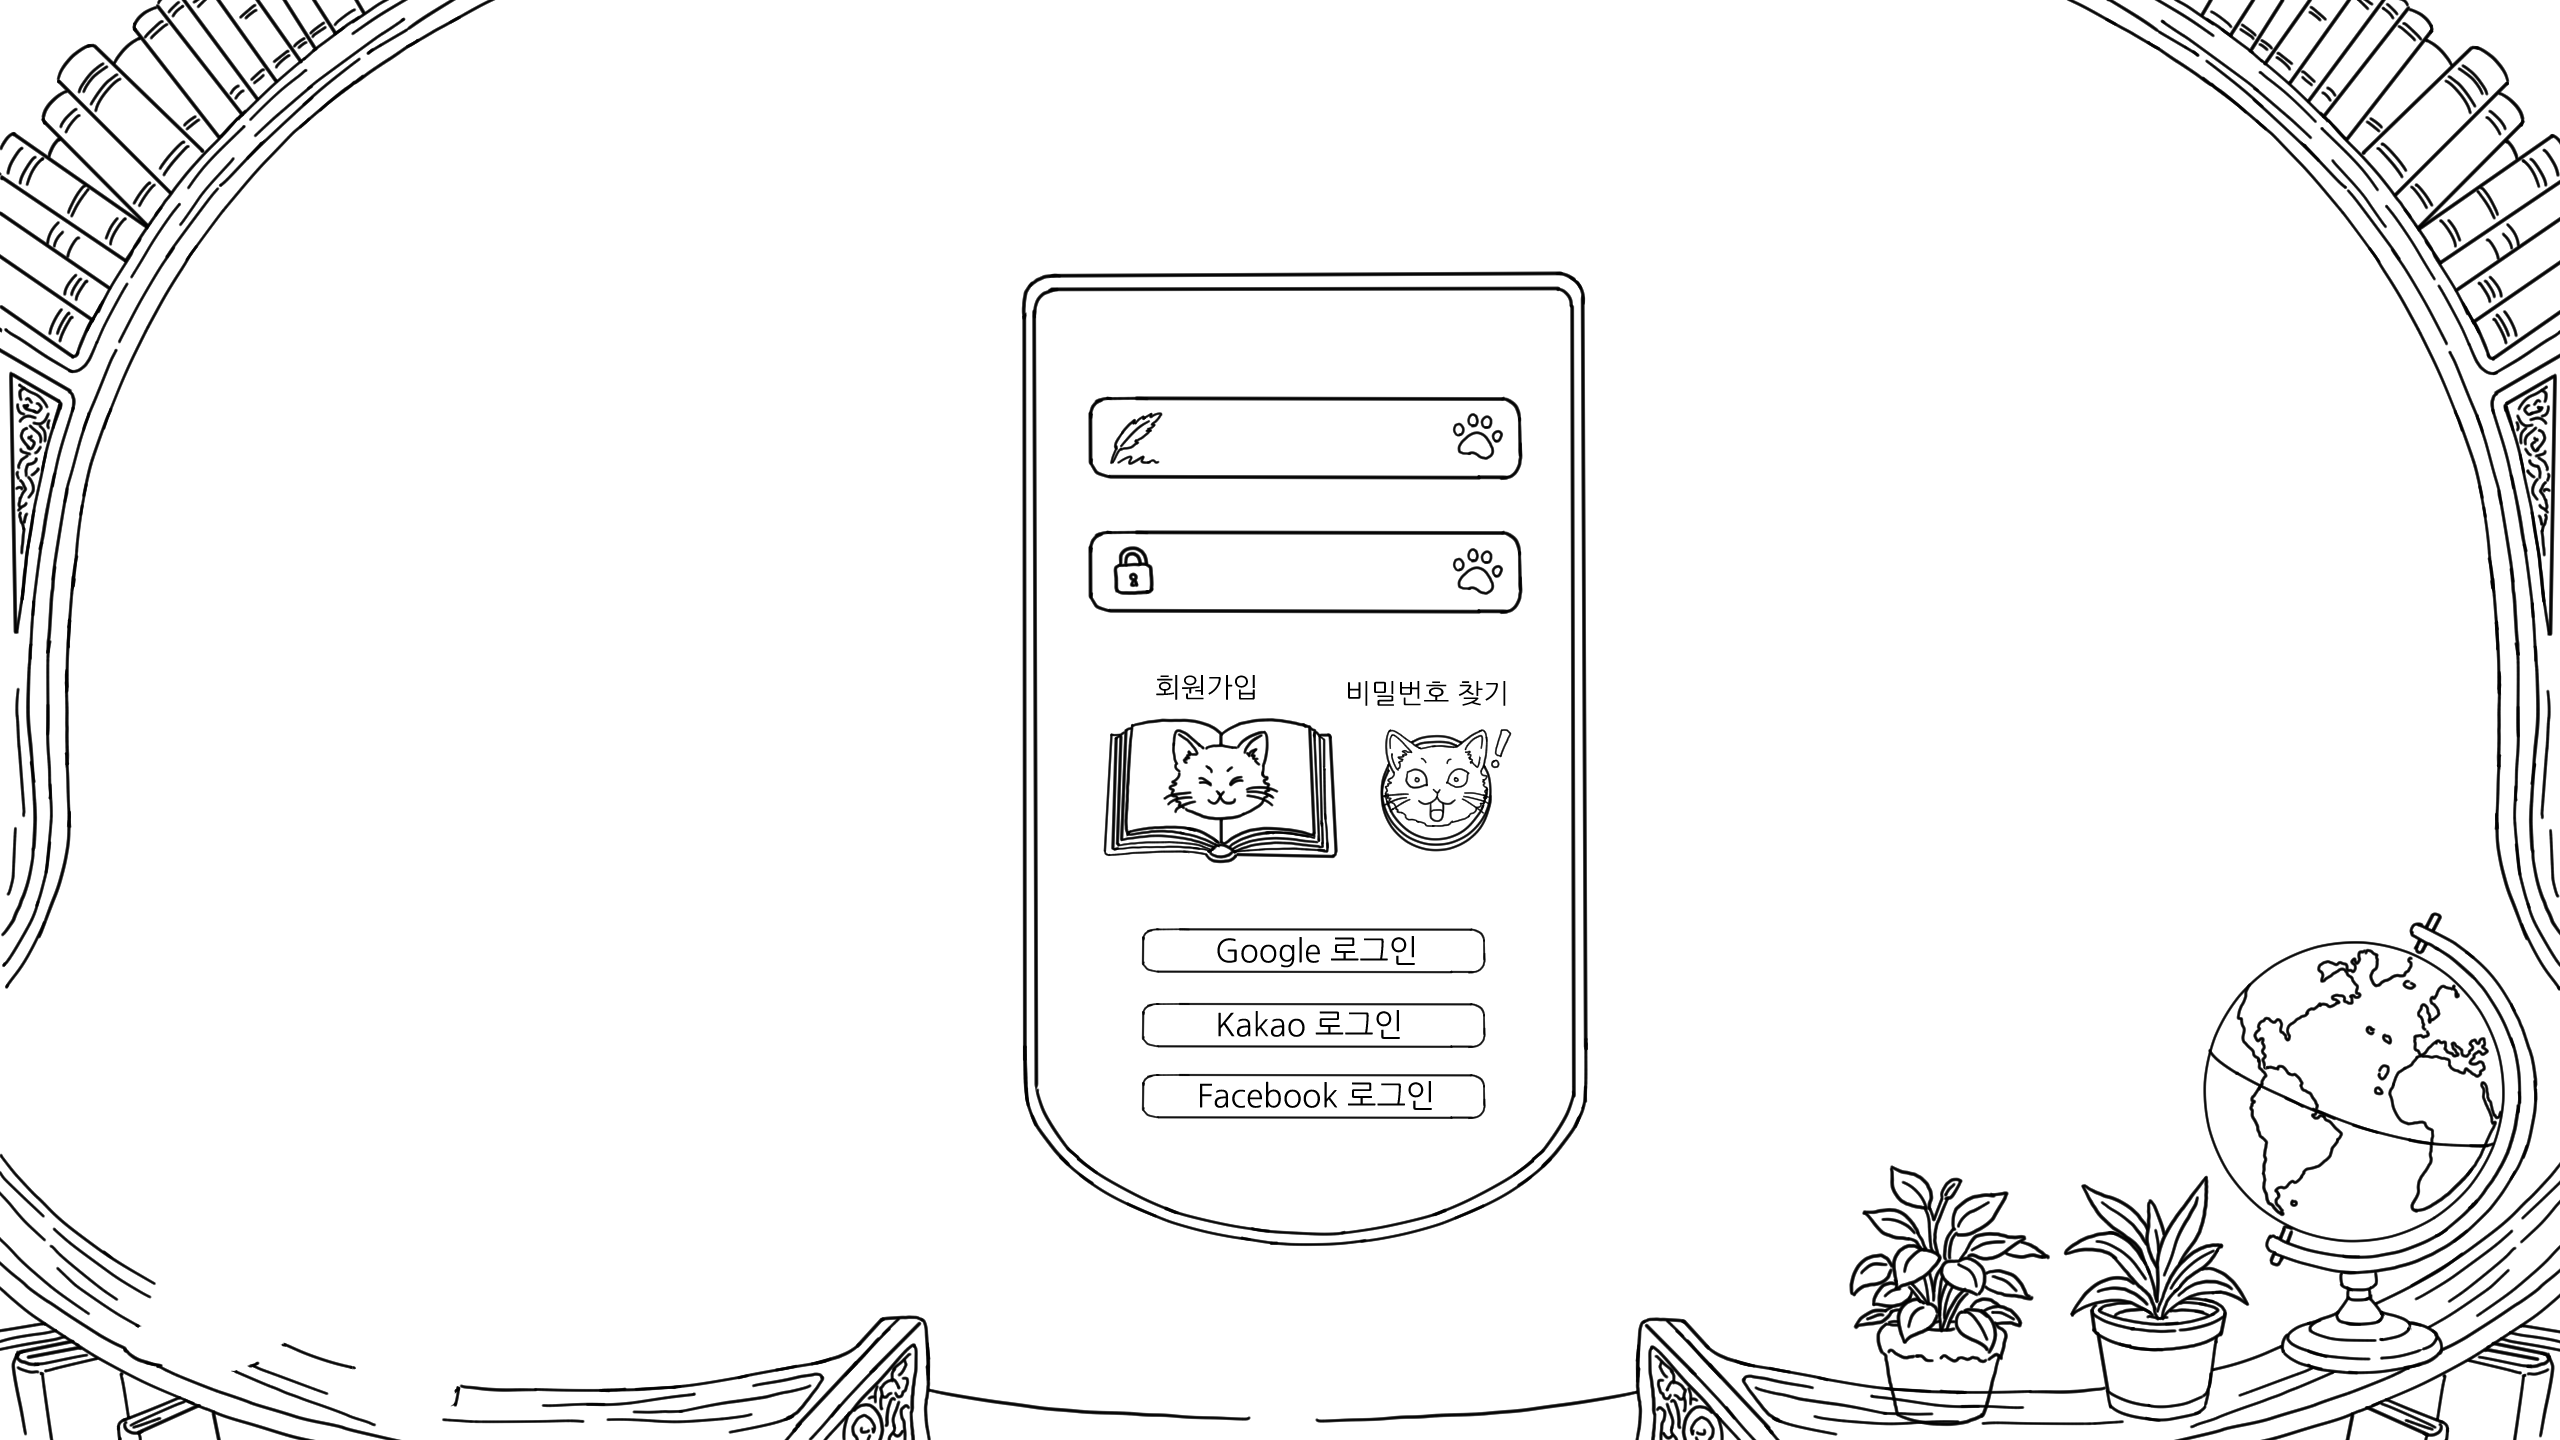
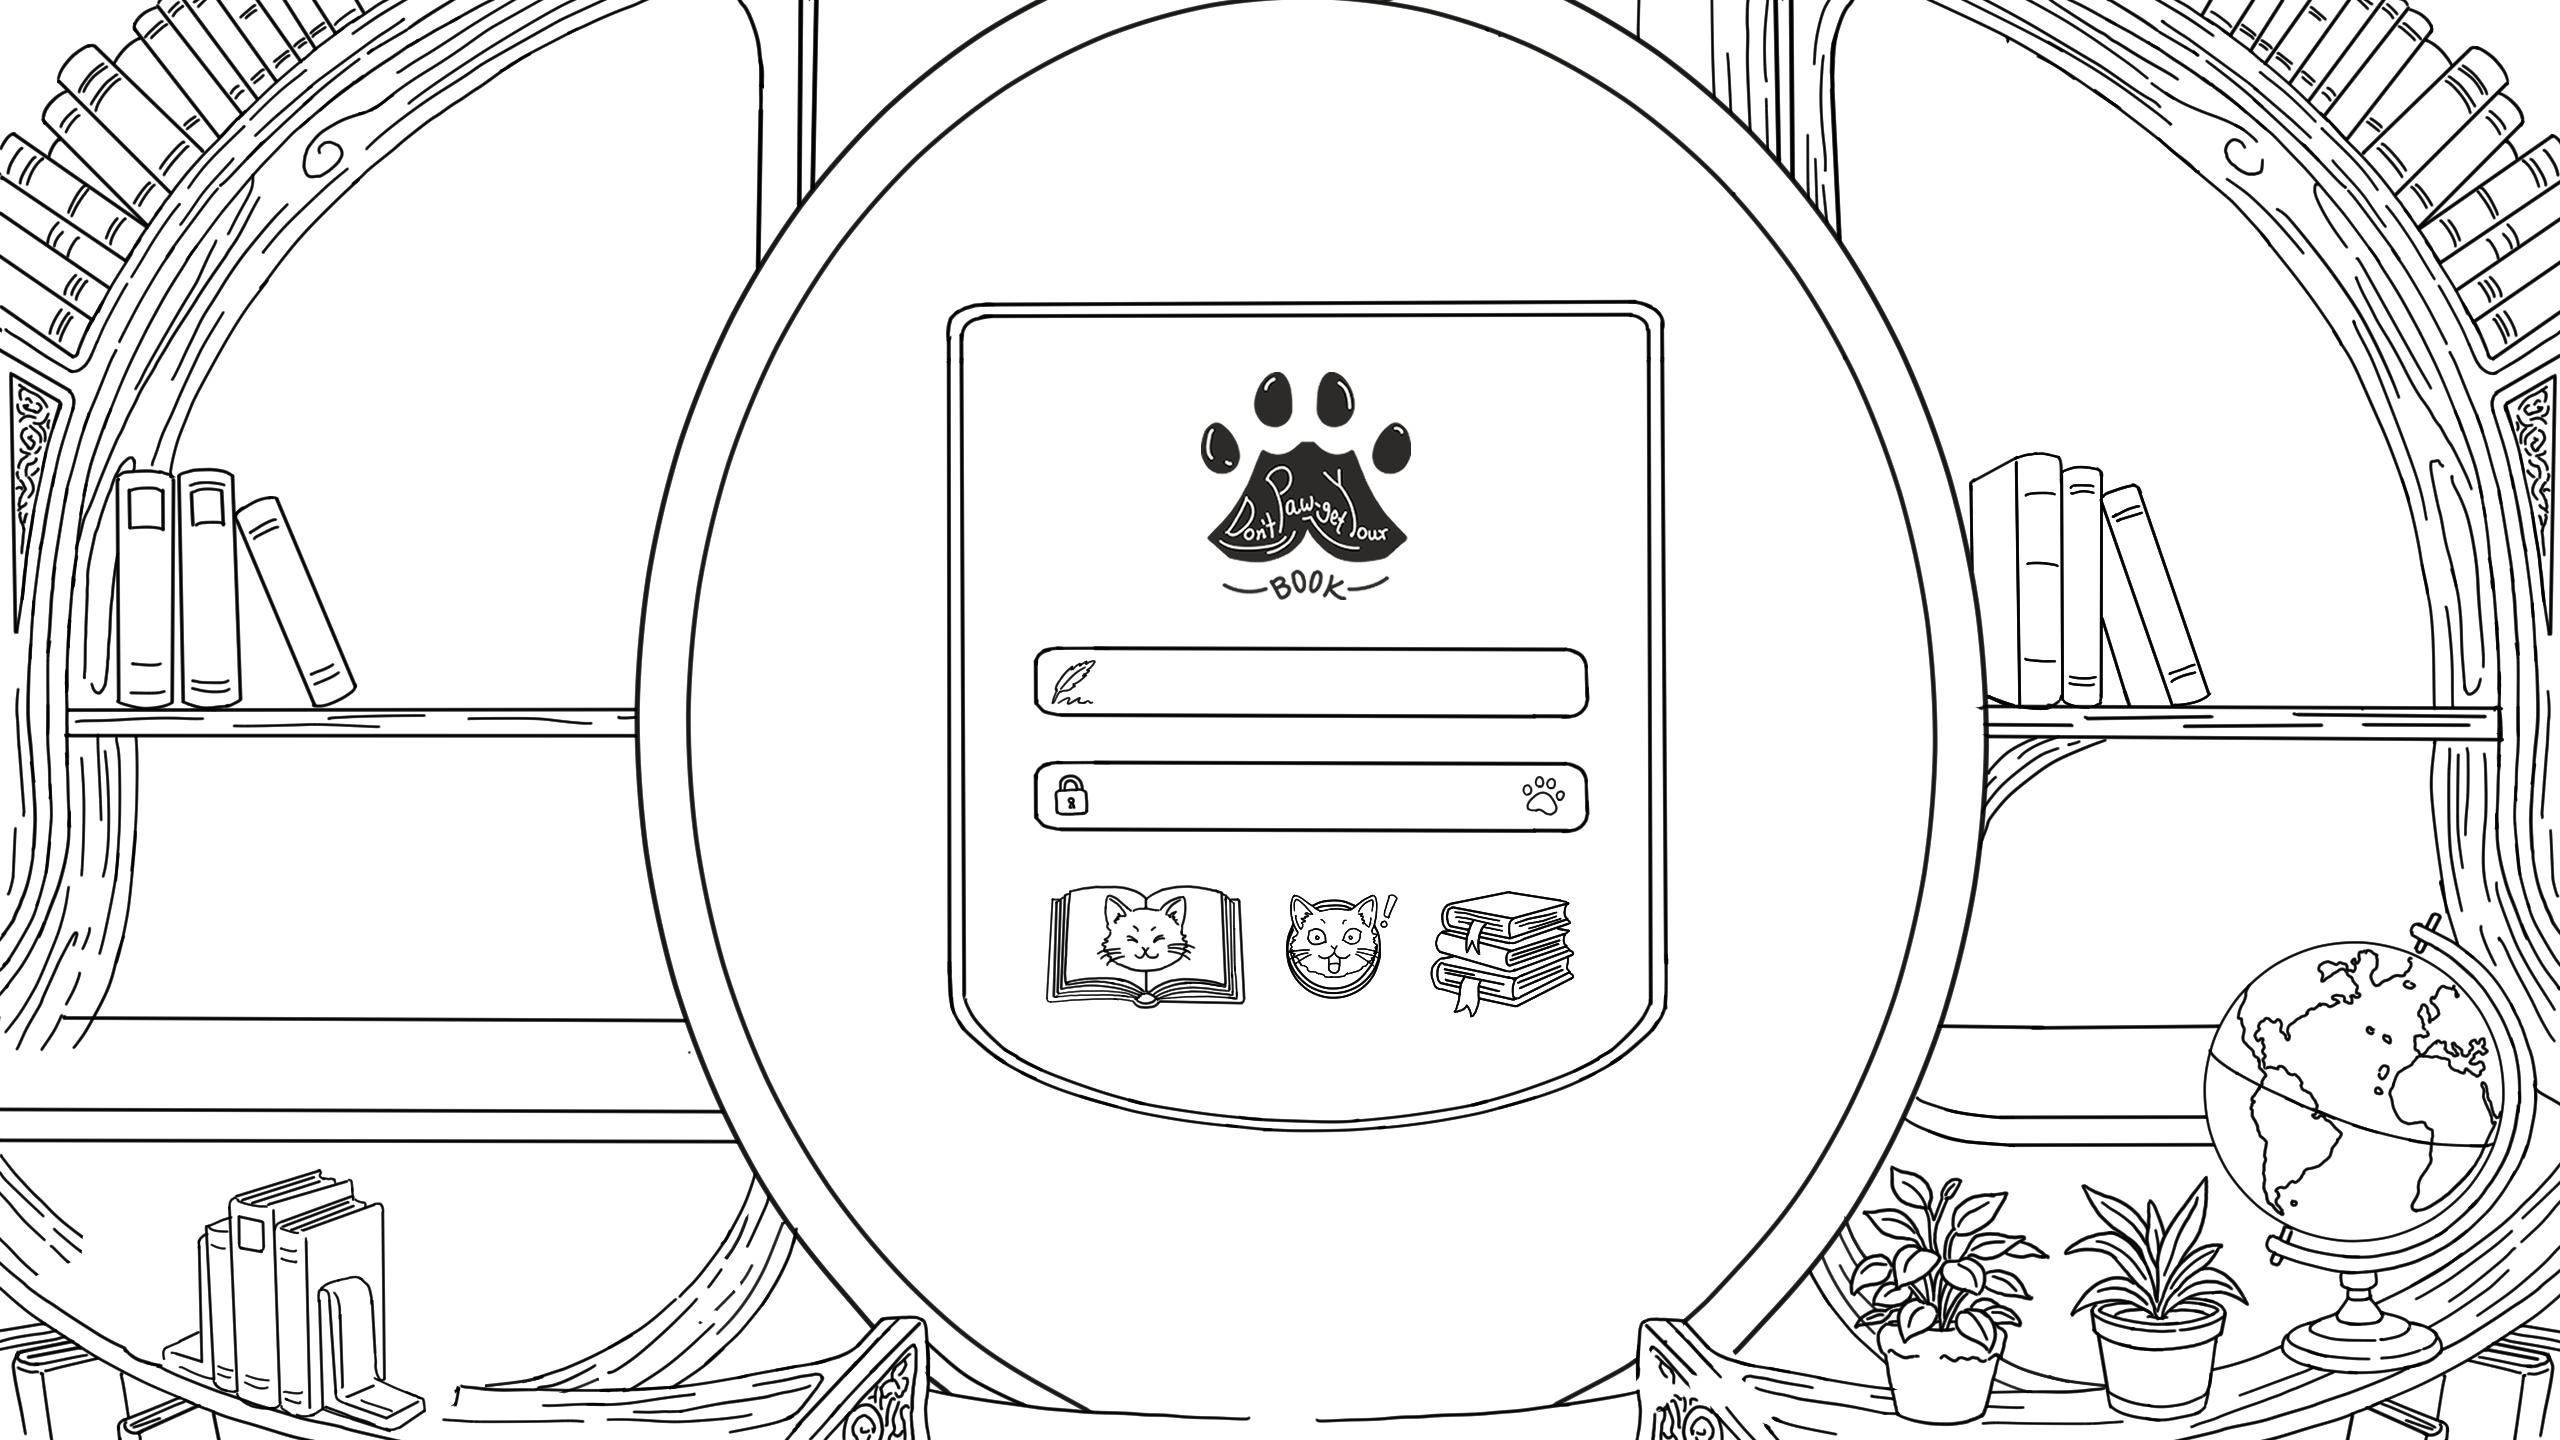
feat: 로그인 페이지 이미지 교체 및 버튼 이미지 적용
- login-bg.png 교체 (새 디자인)
- 버튼 이미지 3종 추가 (login, signup, password)
- 이미지 레이어 방식으로 정확한 위치에 버튼 배치
- 호버 시 밝아짐 + 툴팁 표시, 클릭 시 눌림 효과
- 배경색 베이지(#f5e6d0) 적용 (PNG 투명 영역 대응)

diff --git a/my-reading-room/src/pages/LoginPage.jsx b/my-reading-room/src/pages/LoginPage.jsx
@@ -1,16 +1,90 @@
+import { useState } from 'react';
 import { useNavigate } from 'react-router-dom';
 import './LoginPage.css';
 
+/**
+ * 버튼 이미지는 2560x1440 전체 화면 레이어 (투명 배경 + 버튼 위치 고정).
+ * 전체 화면에 레이어로 깔되, 클릭 가능 영역(bbox)만 잡아서 pointer-events 처리.
+ */
+const BUTTONS = [
+  {
+    id: 'login',
+    src: '/button/button_login.png',
+    tooltip: '로그인',
+    // 불투명 영역 bbox (비율)
+    left: 55.9, top: 61.9, width: 5.6, height: 8.8,
+  },
+  {
+    id: 'signup',
+    src: '/button/button_signup.png',
+    tooltip: '회원가입',
+    left: 40.9, top: 61.5, width: 7.8, height: 8.5,
+  },
+  {
+    id: 'password',
+    src: '/button/button_password.png',
+    tooltip: '비밀번호 찾기',
+    left: 50.2, top: 62.1, width: 4.3, height: 7.2,
+  },
+];
+
+function LoginButton({ btn, onClick }) {
+  const [hovered, setHovered] = useState(false);
+
+  return (
+    <>
+      {/* 전체 화면 이미지 레이어 (시각적 표시용, 클릭 불가) */}
+      <img
+        className={`login-layer-img${hovered ? ' login-layer-img--hover' : ''}`}
+        src={btn.src}
+        alt=""
+        draggable={false}
+      />
+      {/* 클릭 가능 히트 영역 (bbox만큼만) */}
+      <button
+        className="login-hit-area"
+        style={{
+          left: `${btn.left}%`,
+          top: `${btn.top}%`,
+          width: `${btn.width}%`,
+          height: `${btn.height}%`,
+        }}
+        onMouseEnter={() => setHovered(true)}
+        onMouseLeave={() => setHovered(false)}
+        onClick={onClick}
+        aria-label={btn.tooltip}
+      >
+        {hovered && <span className="login-hit-tooltip">{btn.tooltip}</span>}
+      </button>
+    </>
+  );
+}
+
 export default function LoginPage() {
   const navigate = useNavigate();
+
+  const handleClick = (id) => {
+    switch (id) {
+      case 'login':
+        // TODO: 실제 로그인 처리 (지금은 메인으로 이동)
+        navigate('/library');
+        break;
+      case 'signup':
+        navigate('/signup');
+        break;
+      case 'password':
+        // TODO: 비밀번호 찾기 페이지
+        break;
+    }
+  };
 
   return (
     <div className="login-page">
       <img className="login-bg-img" src="/login-bg.png" alt="Don't Paw-get Your Book" />
 
-      <button className="login-signup-btn" onClick={() => navigate('/signup')}>
-        회원가입
-      </button>
+      {BUTTONS.map((btn) => (
+        <LoginButton key={btn.id} btn={btn} onClick={() => handleClick(btn.id)} />
+      ))}
     </div>
   );
 }

diff --git a/my-reading-room/src/pages/LoginPage.css b/my-reading-room/src/pages/LoginPage.css
@@ -3,35 +3,76 @@
   width: 100%;
   height: 100vh;
   overflow: hidden;
-  display: flex;
-  align-items: center;
-  justify-content: center;
+  background-color: #f5e6d0;
 }
 
+/* 배경 이미지 */
 .login-bg-img {
+  position: absolute;
+  inset: 0;
   width: 100%;
   height: 100%;
   object-fit: cover;
+  z-index: 0;
 }
 
-.login-signup-btn {
+/* 버튼 이미지 레이어: 전체 화면 크기로 배경 위에 겹침 */
+.login-layer-img {
   position: absolute;
-  bottom: 48px;
+  inset: 0;
+  width: 100%;
+  height: 100%;
+  object-fit: cover;
+  pointer-events: none;
+  user-select: none;
+  z-index: 1;
+  transition: filter 0.15s ease, transform 0.15s ease;
+}
+
+/* 호버 시 이미지 레이어 밝아짐 */
+.login-layer-img--hover {
+  filter: brightness(1.25) drop-shadow(0 3px 10px rgba(0, 0, 0, 0.25));
+}
+
+/* 히트 영역: 투명 버튼으로 bbox 크기만큼만 배치 */
+.login-hit-area {
+  position: absolute;
+  border: none;
+  background: none;
+  padding: 0;
+  cursor: pointer;
+  z-index: 2;
+}
+
+/* 클릭 시 눌리는 느낌은 인접 이미지 레이어에 전파 (CSS sibling 불가하므로 JS로 처리됨) */
+.login-hit-area:active+.login-layer-img,
+.login-page .login-layer-img--hover {
+  /* hover는 JS 클래스로 처리 */
+}
+
+/* 툴팁 */
+.login-hit-tooltip {
+  position: absolute;
+  bottom: calc(100% + 10px);
   left: 50%;
   transform: translateX(-50%);
-  padding: 12px 36px;
-  border: 1px solid var(--accent);
-  border-radius: 8px;
-  background: rgba(0, 0, 0, 0.5);
-  color: #fff;
-  font-size: 15px;
+  padding: 6px 14px;
+  background: rgba(42, 24, 9, 0.85);
+  color: #f7efe2;
+  font-size: 12px;
   font-weight: 600;
-  cursor: pointer;
+  border-radius: 6px;
+  pointer-events: none;
+  white-space: nowrap;
   backdrop-filter: blur(4px);
-  transition: background 0.2s, color 0.2s;
 }
 
-.login-signup-btn:hover {
-  background: var(--accent);
-  color: #fff;
+.login-hit-tooltip::after {
+  content: '';
+  position: absolute;
+  top: 100%;
+  left: 50%;
+  transform: translateX(-50%);
+  border: 5px solid transparent;
+  border-top-color: rgba(42, 24, 9, 0.85);
 }
